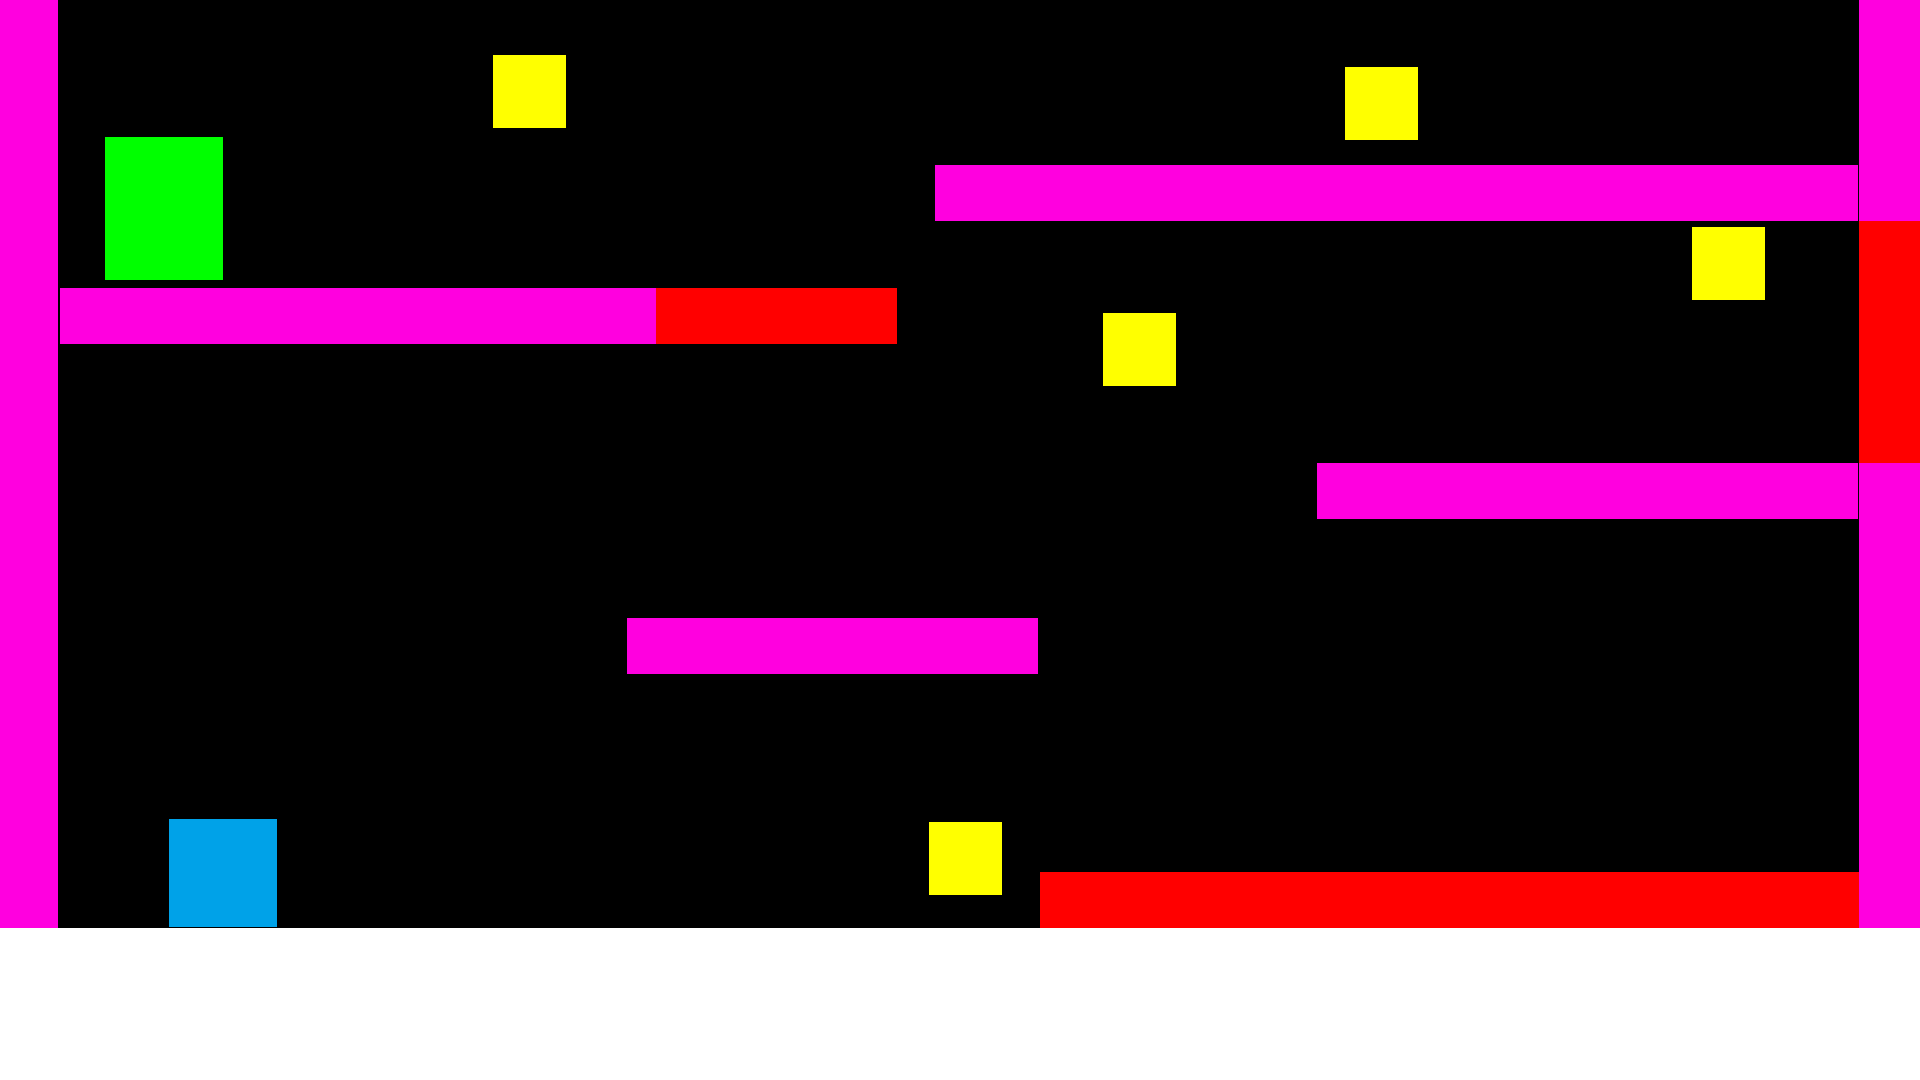
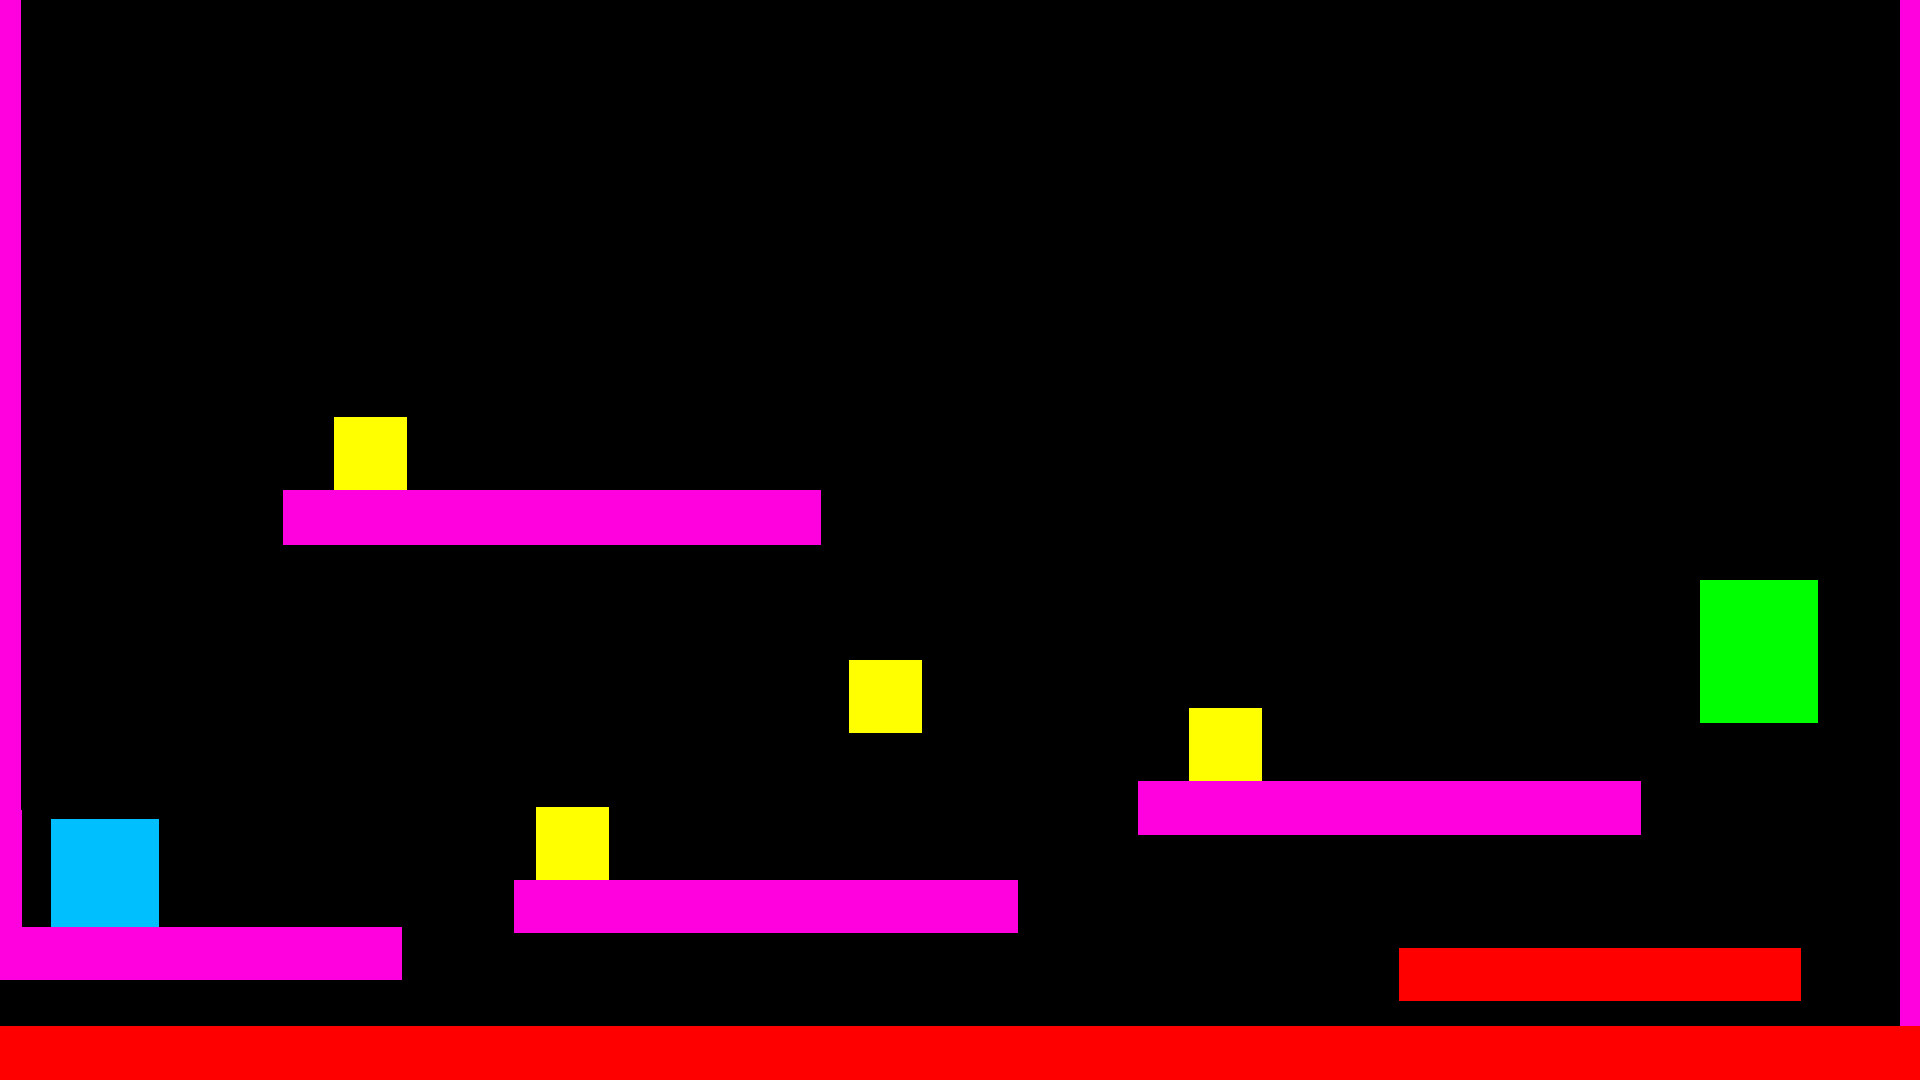
nuevo nivel añadido

diff --git a/core/src/main/java/iticbcn/elhueso/picapollo/screens/GameScreen.java b/core/src/main/java/iticbcn/elhueso/picapollo/screens/GameScreen.java
@@ -39,7 +39,7 @@ public class GameScreen implements Screen {
 
     // Constants
     private static final Color BACKGROUND_COLOR = new Color(0, 0, 0, 1); // Negre per al fons
-    private static final int LAST_LEVEL_NUM = 3;
+    private static final int LAST_LEVEL_NUM = 2;
     private static final float TILE_SIZE = 1f;
 
     private int levelNum;
@@ -55,7 +55,6 @@ public class GameScreen implements Screen {
     private SpriteBatch batch;
 
     // Actors
-    private List<PPGRectangle> allLevelActors;
     private List<Platform> levelPlatforms;
     private List<SpikesPlatform> levelSpikes;
     private List<Collectable> levelCollectables;
@@ -233,7 +232,7 @@ public class GameScreen implements Screen {
         player.moveY(delta);
         boolean landed = false;
         for (Platform plat : levelPlatforms) {
-            if (!player.isDoingThumbsUp()) {
+            if (!player.isDoingThumbsUp() && player.getVelocity().y < 0 && Math.abs(player.getVelocity().x) < 0.1f) {
                 player.setTexture(AssetManager.playerHangTexture);
             }
             if (player.isLandingOn(plat)) {
@@ -297,7 +296,13 @@ public class GameScreen implements Screen {
         if(goal != null && goal.isVisible() && player.getBounds().overlaps(goal.getBounds())){
             AssetManager.goalReached.play();
             AssetManager.backgroundSong.stop();
-            game.setScreen(new EndScreen(game, true));
+
+            if (levelNum < LAST_LEVEL_NUM) {
+                levelNum++;
+                game.setScreen(new GameScreen(game, levelNum));
+            } else {
+                game.setScreen(new EndScreen(game, true));
+            }
         }
     }
 
